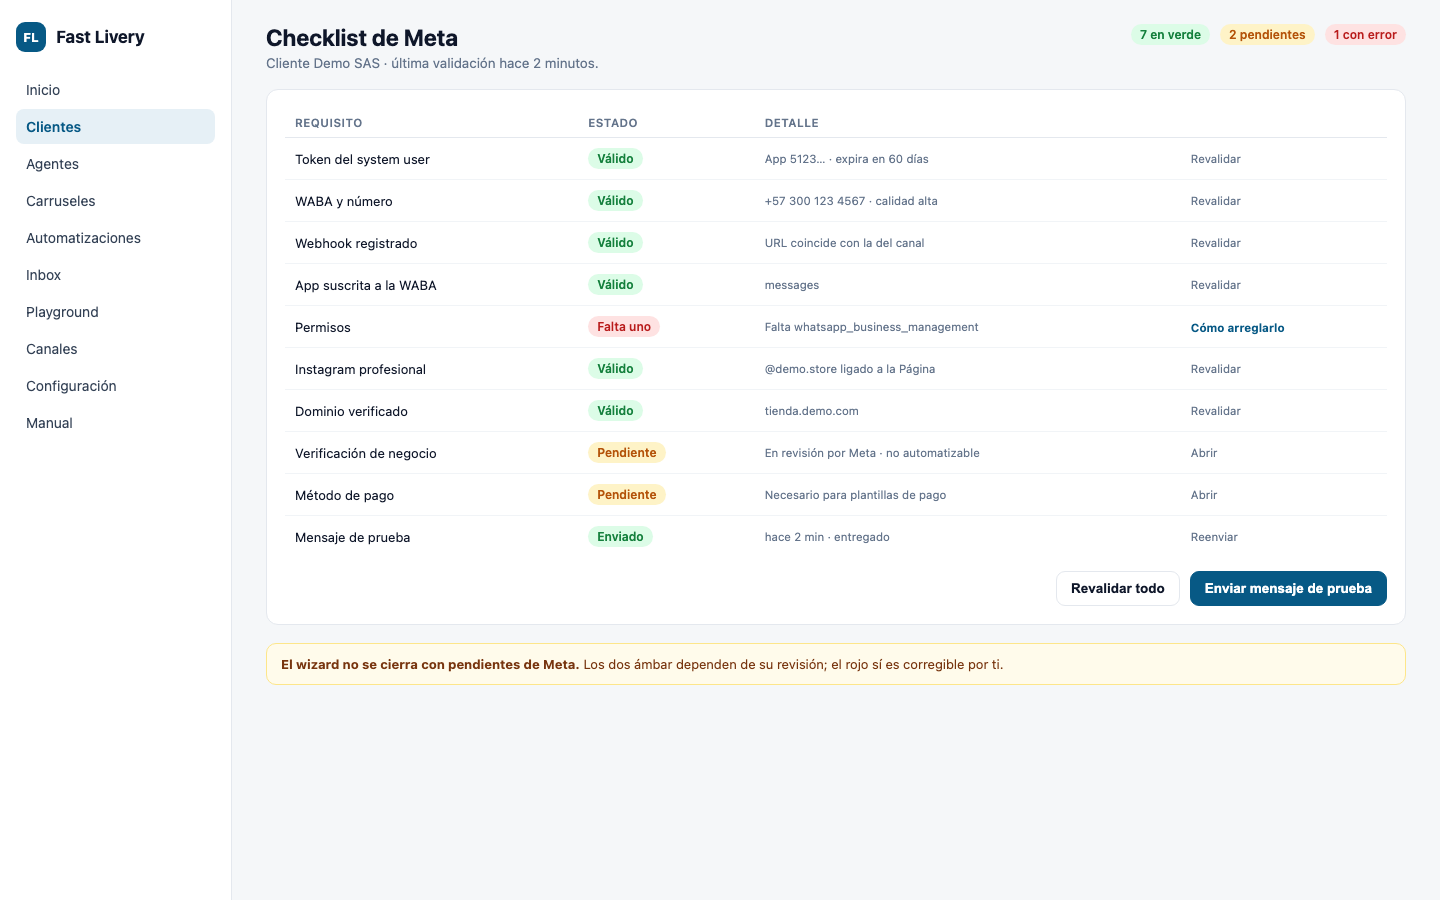
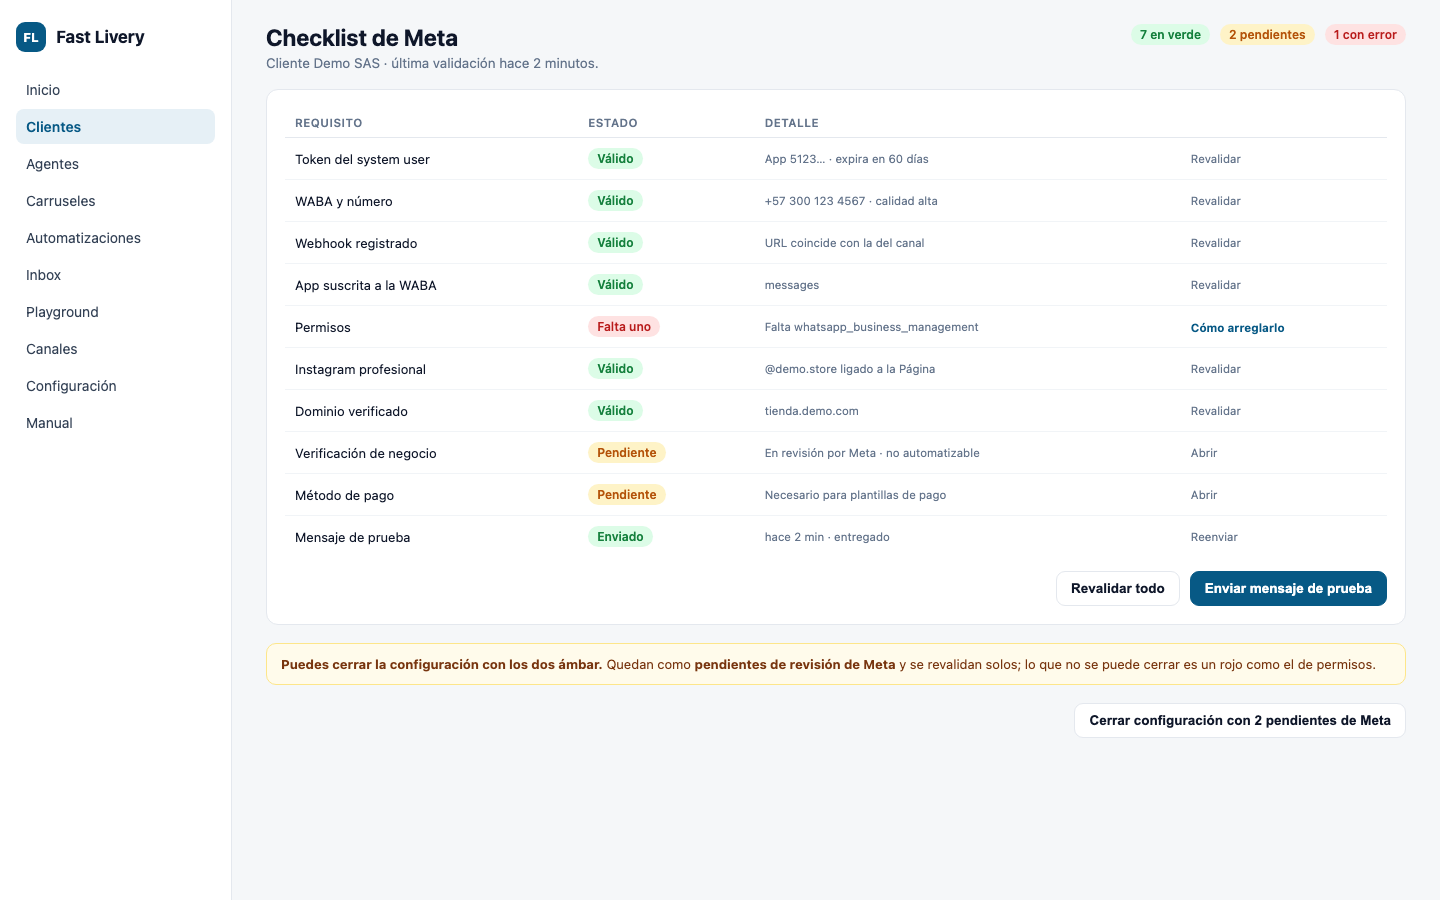
Apply review corrections to the Meta wizard mockups

Changed region(s): [[0.1875, 0.7156, 0.9375, 0.7467], [0.75, 0.7778, 0.9688, 0.8089]]

diff --git a/docs/design/mockups-meta-wizard.html b/docs/design/mockups-meta-wizard.html
@@ -107,7 +107,7 @@
       </table>
       <div class="row" style="justify-content:flex-end;margin-top:14px"><button class="btn">Revalidar todo</button><button class="btn pri">Enviar mensaje de prueba</button></div>
     </div>
-    <div class="banner warn"><b>El wizard no se cierra con pendientes de Meta.</b> Los dos ámbar dependen de su revisión; el rojo sí es corregible por ti.</div>
+    <div class="banner warn"><b>Puedes cerrar la configuración con los dos ámbar.</b> Quedan como <b>pendientes de revisión de Meta</b> y se revalidan solos; lo que no se puede cerrar es un rojo como el de permisos.</div><div class="row" style="justify-content:flex-end"><button class="btn">Cerrar configuración con 2 pendientes de Meta</button></div>
   </div>
 </section>
 
@@ -120,7 +120,7 @@
   <div class="main">
     <div class="top"><div><h1>Paso 6 · Permisos</h1><p class="sub">La validación falló. El paso no avanza hasta corregirlo.</p></div><span class="pill bad">Error de Meta</span></div>
     <div class="card">
-      <div class="banner err"><b>Meta respondió:</b> <span class="mono">(#200) Requires whatsapp_business_management permission</span></div>
+      <div class="banner err"><b>Falta un permiso de Meta.</b> El usuario del sistema no tiene <span class="mono">whatsapp_business_management</span>; añádelo y genera un token nuevo.</div><details style="margin-top:8px"><summary class="tiny" style="cursor:pointer;color:var(--muted)">Ver detalle técnico</summary><p class="mono tiny" style="margin:6px 0 0">(#200) Requires whatsapp_business_management permission</p></details>
       <h2 style="margin:16px 0 6px">Cómo solucionarlo</h2>
       <ol class="fix">
         <li>Entra a <b>business.facebook.com → Configuración del negocio → Usuarios → Usuarios del sistema</b>.</li>
